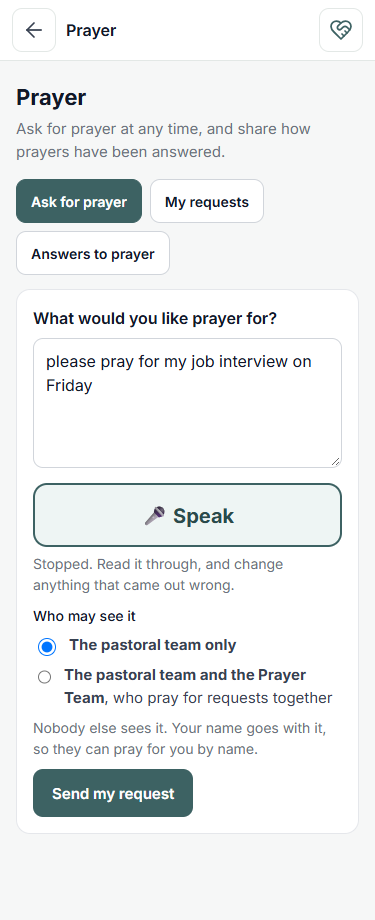
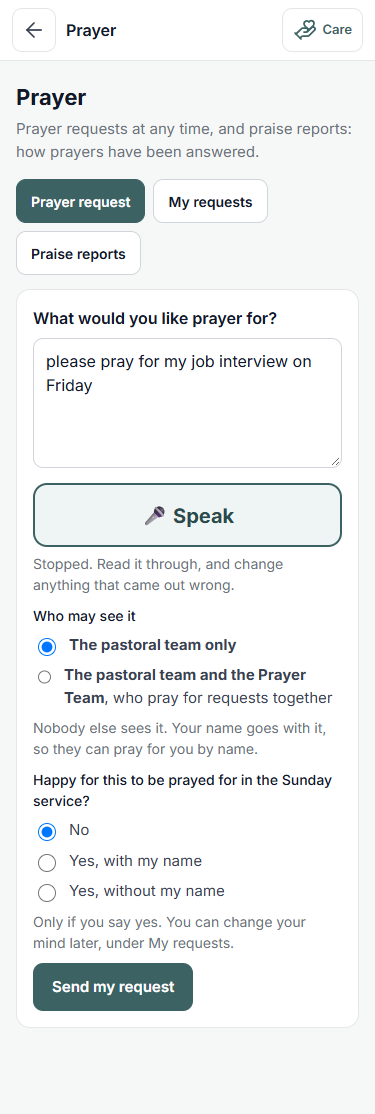
Events: prayer - the whole form before switch-over, and 'For Sunday' (F-217)
Before switch-over prayer.html and newhere.html show the whole form;
only the button is shut ('Prayer requests open on ...'), with the 999
line above it; nothing saved (checked at send). New: 'Happy for this to
be prayed for in the Sunday service?' No / Yes, with my name / Yes,
without my name; readers see the choice; a 'For Sunday' list of the yes
ones only. prayer 38/38, newhere 27/27, rules 1423/1423, 12 breaks.

diff --git a/v2/prayer.html b/v2/prayer.html
@@ -43,6 +43,10 @@
   .btn.sec{background:#fff;color:var(--ink);border-color:var(--line-2)}
   .btn.small{min-height:40px;font-size:14px;padding:0 12px}
   .btn:disabled{opacity:.55}
+  .btn.closed:disabled{opacity:1;background:#e5e7eb;color:#374151;border-color:#d1d5db;cursor:not-allowed;white-space:normal;text-align:center}
+  .danger999{font-size:15px;font-weight:600;color:var(--ink);margin:12px 0 0}
+  select.sun{min-height:40px;border:1px solid var(--line-2);border-radius:10px;padding:0 10px;font:inherit;background:#fff;color:var(--ink)}
+  @media print{.tabs,#pr-settings,.noprint{display:none!important}.card{border:none}}
   .acts{display:flex;gap:8px;flex-wrap:wrap;margin-top:10px}
   .item{padding:12px 0;border-top:1px solid var(--line)}.item:first-of-type{border-top:none}
   .item .w{white-space:pre-wrap;overflow-wrap:break-word;color:var(--ink)}
@@ -85,6 +89,17 @@
   var NOBODY = false;
   var NOBODY_WORDS = 'Messages cannot be sent from here yet, because the church has not yet named who receives them. ' +
     'If someone is in immediate danger, call 999. Otherwise, please speak to one of the church leaders in person - for example after a Sunday service.';
+  /* SUNDAY (Martin, 15 Oct): "Happy for this to be prayed for in the Sunday
+     service?" No unless the person says yes; with or without their name.
+     Saved as sunday: 'no' | 'named' | 'anon'. Never read out unless yes. */
+  var SUNDAY = [['no', 'No'], ['named', 'Yes, with my name'], ['anon', 'Yes, without my name']];
+  function sundayOf(p) { return p && (p.sunday === 'named' || p.sunday === 'anon') ? p.sunday : 'no'; }
+  function sundayWords(p) { var v = sundayOf(p); return v === 'named' ? 'Sunday: yes, with the name' : v === 'anon' ? 'Sunday: yes, without the name' : 'Not for Sunday'; }
+  /* Before switch-over the whole form shows; only the button is shut. */
+  function closedWords() { return 'Prayer requests open ' + (LAUNCH.opensOn ? 'on ' + LAUNCH.opensOn : 'when the new church hub opens'); }
+  function closedBit() {
+    return '<p class="danger999" id="pr-999">' + esc(window.EGBCLaunch ? EGBCLaunch.DANGER : 'If someone is in immediate danger, call 999.') + ' Until then, please speak to a church leader in person.</p>';
+  }
   function launch() { return window.EGBCLaunch ? EGBCLaunch.check() : Promise.resolve({ locked: false, opensOn: '' }); }
   function notYet() { return window.EGBCLaunch ? EGBCLaunch.notYet(LAUNCH.opensOn) : 'This form is not open yet.'; }
   /* Before every save: still not open means nothing is written. */
@@ -107,15 +122,15 @@
   function draw() {
     if (window.EGBCChurch && EGBCChurch.uses && !EGBCChurch.uses('prayer')) { $('main').innerHTML = '<div class="card">Prayer requests are not used by this church.</div>'; return; }
     var tabs = [['ask', 'Prayer request'], ['mine', 'My requests'], ['answers', 'Praise reports']];
-    if (FORUS) tabs.push(['forus', FORUS.pastoral ? 'Requests to pray for' : 'Prayer team']);
+    if (FORUS) tabs.push(['forus', FORUS.pastoral ? 'Requests to pray for' : 'Prayer team'], ['sunday', 'For Sunday']);
+    if (TAB === 'sunday' && !FORUS) TAB = 'ask';
     $('main').innerHTML = '<div class="tabs" role="tablist">' + tabs.map(function (t) {
       return '<button data-tab="' + t[0] + '" aria-pressed="' + (TAB === t[0]) + '">' + t[1] + '</button>'; }).join('') + '</div>' +
-      (TAB === 'ask' ? askCard() : TAB === 'mine' ? mineCard() : TAB === 'answers' ? answersCard() : forUsCard()) + (MASTER ? settingsCard() : '');
+      (TAB === 'ask' ? askCard() : TAB === 'mine' ? mineCard() : TAB === 'answers' ? answersCard() : TAB === 'sunday' ? sundayCard() : forUsCard()) + (MASTER ? settingsCard() : '');
     wire();
   }
   function askCard() {
-    if (!LAUNCH.locked) return '<div class="card" id="ask"><h2>What would you like prayer for?</h2><p class="said" id="not-yet" role="status">' + esc(notYet()) + '</p></div>';
-    if (NOBODY) return '<div class="card" id="ask"><h2>What would you like prayer for?</h2><p class="said" id="nobody" role="status">' + esc(NOBODY_WORDS) + '</p></div>';
+    if (NOBODY && LAUNCH.locked) return '<div class="card" id="ask"><h2>What would you like prayer for?</h2><p class="said" id="nobody" role="status">' + esc(NOBODY_WORDS) + '</p></div>';
     if (SENT) return '<div class="card" id="ask"><div class="done" id="sent">Thank you. Your request has been passed on, and you will be prayed for.</div>' +
       '<div class="acts"><button class="btn sec" id="again">Ask for something else</button></div></div>';
     return '<div class="card" id="ask"><h2>What would you like prayer for?</h2>' +
@@ -125,13 +140,19 @@
       '<label class="radio"><input type="radio" name="pr-share" value="pastoral" checked><span><b>The pastoral team only</b></span></label>' +
       (TEAM ? '<label class="radio"><input type="radio" name="pr-share" value="prayerTeam"><span><b>The pastoral team and the ' + esc(TEAM) + '</b>, who pray for requests together</span></label>' : '') +
       '<p class="said">Nobody else sees it. Your name goes with it, so they can pray for you by name.</p>' +
-      '<div class="acts"><button class="btn" id="pr-go">Send my request</button></div></div>';
+      '<label class="l">Happy for this to be prayed for in the Sunday service?</label>' +
+      SUNDAY.map(function (o) { return '<label class="radio"><input type="radio" name="pr-sunday" value="' + o[0] + '"' + (o[0] === 'no' ? ' checked' : '') + '><span>' + o[1] + '</span></label>'; }).join('') +
+      '<p class="said">Only if you say yes. You can change your mind later, under My requests.</p>' +
+      (LAUNCH.locked ? '<div class="acts"><button class="btn" id="pr-go">Send my request</button></div></div>'
+        : closedBit() + '<div class="acts"><button class="btn closed" id="pr-go" disabled aria-disabled="true">' + esc(closedWords()) + '</button></div></div>');
   }
   function mineCard() {
     return '<div class="card" id="mine"><h2>My requests</h2>' + (MINE.length ? MINE.map(function (p) {
       return '<div class="item" data-mine="' + esc(p.id) + '"><div class="w">' + esc(p.text) + '</div>' +
         '<div class="m">' + esc(when(p.at)) + ' · ' + (p.share === 'prayerTeam' ? 'pastoral team and ' + esc(TEAM || 'prayer team') : 'pastoral team') +
         (p.answered ? ' · <span class="pill ok">Answered</span>' : '') + '</div>' +
+        '<div class="m"><label>In the Sunday service? <select class="sun" data-sunday="' + esc(p.id) + '"' + (LAUNCH.locked ? '' : ' disabled') + '>' +
+          SUNDAY.map(function (o) { return '<option value="' + o[0] + '"' + (sundayOf(p) === o[0] ? ' selected' : '') + '>' + o[1] + '</option>'; }).join('') + '</select></label></div>' +
         (p.answered && p.answer ? '<div class="w" style="margin-top:6px">' + esc(p.answer) + '</div>' : '') +
         (p.answered || !LAUNCH.locked ? '' : '<label class="l" for="an-' + esc(p.id) + '">Has it been answered? Say how (optional)</label><textarea id="an-' + esc(p.id) + '" maxlength="2000" style="min-height:70px"></textarea>' +
           '<label class="radio"><input type="checkbox" id="sh-' + esc(p.id) + '"><span>Share the answer with the church, to encourage others</span></label>' +
@@ -146,11 +167,11 @@
         return '<div class="item" data-answer-of="' + esc(a.id) + '"><div class="w">' + esc(a.text) + '</div><div class="m">' + esc(a.byName || 'Shared without a name') + ' · ' + esc(when(a.at)) + '</div>' +
           (FORUS && FORUS.pastoral ? '<div class="acts"><button class="btn sec small" data-hide="' + esc(a.id) + '">Hide it</button></div>' : '') + '</div>';
       }).join('') : '<p class="said">None shared yet.</p>') +
-      (!LAUNCH.locked ? '<p class="said" id="not-yet-share" role="status">Sharing an answer to prayer opens when the new church hub opens.</p></div>' :
-      '<label class="l" for="sh-text">Share an answer to prayer</label><textarea id="sh-text" maxlength="2000" style="min-height:90px"></textarea>' +
+      ('<label class="l" for="sh-text">Share an answer to prayer</label><textarea id="sh-text" maxlength="2000" style="min-height:90px"></textarea>' +
       '<button class="speak" id="sh-speak" type="button" aria-pressed="false">🎤 Speak</button><p class="said" id="sh-said" role="status"></p>' +
       '<label class="radio"><input type="checkbox" id="sh-name" checked><span>with my name</span></label>' +
-      '<div class="acts"><button class="btn" id="sh-go">Share it</button></div></div>');
+      (LAUNCH.locked ? '<div class="acts"><button class="btn" id="sh-go">Share it</button></div></div>'
+        : closedBit() + '<div class="acts"><button class="btn closed" id="sh-go" disabled aria-disabled="true">' + esc('Sharing opens ' + (LAUNCH.opensOn ? 'on ' + LAUNCH.opensOn : 'when the new church hub opens')) + '</button></div></div>'));
   }
   function forUsCard() {
     var list = FORUS.list;
@@ -159,8 +180,28 @@
       (list.length ? list.map(function (p) {
         return '<div class="item" data-forus="' + esc(p.id) + '"><div class="w">' + esc(p.text) + '</div><div class="m">' + esc(p.byName || '') + ' · ' + esc(when(p.at)) +
           (FORUS.pastoral ? ' · ' + (p.share === 'prayerTeam' ? 'shared with the ' + esc(TEAM || 'prayer team') : 'pastoral only') : '') +
+          ' · <span class="pill' + (sundayOf(p) === 'no' ? '' : ' ok') + '" data-sun="' + sundayOf(p) + '">' + esc(sundayWords(p)) + '</span>' +
           (p.answered ? ' · <span class="pill ok">Answered</span>' : '') + '</div>' + (p.answered && p.answer ? '<div class="w" style="margin-top:6px">' + esc(p.answer) + '</div>' : '') + '</div>';
       }).join('') : '<p class="said">None at the moment.</p>') + '</div>';
+  }
+  /* FOR SUNDAY: only requests the person said yes to, not yet answered,
+     from the last four weeks, newest first - with the name only when they
+     chose "with my name". For the service leader or the pastor to read out. */
+  function forSunday() {
+    var since = Date.now() - 28 * 864e5;
+    return (FORUS ? FORUS.list : []).filter(function (p) {
+      var t = p.at && p.at.toMillis ? p.at.toMillis() : Date.now();
+      return sundayOf(p) !== 'no' && !p.answered && t >= since;
+    });
+  }
+  function sundayCard() {
+    var list = forSunday();
+    return '<div class="card" id="sunday"><h2>For Sunday</h2>' +
+      '<p class="said" style="margin:0 0 8px">Requests people are happy to have prayed for in the Sunday service, from the last four weeks. A name only where they asked for it.</p>' +
+      (list.length ? list.map(function (p) {
+        return '<div class="item" data-sunday-item="' + esc(p.id) + '"><div class="w">' + esc(p.text) + '</div>' +
+          '<div class="m">' + (sundayOf(p) === 'named' ? esc(p.byName || '') : 'No name given') + ' · ' + esc(when(p.at)) + '</div></div>';
+      }).join('') + '<div class="acts noprint"><button class="btn sec" id="sun-print">Print</button></div>' : '<p class="said">None for this Sunday.</p>') + '</div>';
   }
   function settingsCard() {
     return '<div class="card" id="pr-settings"><h2>The prayer team</h2><p class="said" style="margin:0 0 6px">If the church has a prayer team, name it here (its team or group, exactly as in the address book), and people can choose to share a request with it too. Leave it empty for none.</p>' +
@@ -179,14 +220,18 @@
     document.querySelectorAll('[data-hide]').forEach(function (b) { b.onclick = function () { hide(b.dataset.hide); }; });
     if ($('sh-go')) $('sh-go').onclick = function () { share($('sh-text').value, $('sh-name').checked).then(function (ok) { if (ok) { toast('Shared. Thank you.'); load(); } }); };
     if ($('pt-go')) $('pt-go').onclick = saveTeam;
+    if ($('sun-print')) $('sun-print').onclick = function () { window.print(); };
+    document.querySelectorAll('[data-sunday]').forEach(function (s) { s.onchange = function () { setSunday(s.dataset.sunday, s.value); }; });
   }
 
   /* ---------------- saving ---------------- */
   function send() {
     var text = ($('pr-text').value || '').trim(), share = (document.querySelector('input[name="pr-share"]:checked') || {}).value || 'pastoral';
+    var sunday = (document.querySelector('input[name="pr-sunday"]:checked') || {}).value || 'no';
+    if (['no', 'named', 'anon'].indexOf(sunday) < 0) sunday = 'no';
     if (text.length < 3) { toast('Write or say a few words first'); return; }
     $('pr-go').disabled = true;
-    mayWrite().then(function () { return db().collection('prayers').add({ by: uid(), byName: (ME.name || '').slice(0, 120), text: text.slice(0, 4000), share: share, at: now(), answered: false, answer: '', answeredAt: null }); })
+    mayWrite().then(function () { return db().collection('prayers').add({ by: uid(), byName: (ME.name || '').slice(0, 120), text: text.slice(0, 4000), share: share, sunday: sunday, at: now(), answered: false, answer: '', answeredAt: null }); })
       .then(function () { SENT = true; return load(); })
       .catch(function (e) { if (e && e.message === 'not open') return; $('pr-go').disabled = false; toast('Could not send it: ' + (e.message || e)); });
   }
@@ -195,6 +240,11 @@
     mayWrite().then(function () { return db().collection('prayers').doc(id).update({ answered: true, answer: ans, answeredAt: now() }); })
       .then(function () { return sh && ans.length >= 3 ? share(ans, nm) : true; })
       .then(function () { toast(sh && ans.length >= 3 ? 'Marked answered, and shared. Thank you.' : 'Marked answered.'); return load(); })
+      .catch(function (e) { if (e && e.message === 'not open') return; toast('Could not: ' + (e.message || e)); });
+  }
+  function setSunday(id, v) {
+    mayWrite().then(function () { return db().collection('prayers').doc(id).update({ sunday: v }); })
+      .then(function () { toast(v === 'no' ? 'It will not be read out on Sunday.' : 'Saved: it may be prayed for on Sunday, ' + (v === 'named' ? 'with your name.' : 'without your name.')); return load(); })
       .catch(function (e) { if (e && e.message === 'not open') return; toast('Could not: ' + (e.message || e)); });
   }
   function withdraw(id) {
@@ -238,7 +288,7 @@
   EGBCAuth.require().then(function (p) {
     ME = p || {};
     MASTER = !!(EGBCAuth.isMaster && EGBCAuth.isMaster());
-    if (/[?&]tab=(mine|answers|forus)\b/.test(location.search)) TAB = location.search.match(/tab=(\w+)/)[1];
+    if (/[?&]tab=(mine|answers|forus|sunday)\b/.test(location.search)) TAB = location.search.match(/tab=(\w+)/)[1];
     return launch().then(function (L) {
       LAUNCH = L;
       return db().collection('careRouting').doc('status').get().then(function (s) { NOBODY = s.exists && s.data().leadSet === false; }, function () {});

diff --git a/v2/newhere.html b/v2/newhere.html
@@ -43,6 +43,8 @@
   .btn{display:inline-flex;align-items:center;justify-content:center;min-height:52px;padding:0 22px;border-radius:12px;font:600 16px Inter,sans-serif;cursor:pointer;border:1px solid transparent;background:var(--brand);color:#fff}
   .btn.sec{background:#fff;color:var(--ink);border-color:var(--line-2)}.btn.small{min-height:40px;font-size:14px;padding:0 12px}
   .btn:disabled{opacity:.55}
+  .btn.closed:disabled{opacity:1;background:#e5e7eb;color:#374151;border-color:#d1d5db;cursor:not-allowed;white-space:normal;text-align:center}
+  .danger999{font-size:15px;font-weight:600;color:#111827;margin:12px 0 8px}
   .done{background:var(--ok-bg);color:var(--ok);border-radius:12px;padding:14px;font-size:16px}
   .err{color:#b0392c;font-size:14px;margin:8px 0 0}
   .okmsg{color:var(--ok);font-size:14px;margin:8px 0 0}
@@ -82,7 +84,10 @@
   }
   function all(s) { return s.docs.map(function (d) { return Object.assign({ id: d.id }, d.data()); }); }
 
-  function card() {
+  /* Before switch-over (Martin, 15 Oct) the whole form shows, so people
+     can see what it asks; only Send is shut, with the 999 line above it. */
+  function card(L) {
+    var closed = L && !L.locked;
     var church = EGBCChurch.name() || 'our church';
     return '<h1>Welcome!</h1><p class="sub">We are glad you are here. Say hello, and if you would like, someone from ' + esc(church) + ' will get in touch.</p>' +
       '<form class="card" id="f" novalidate>' +
@@ -98,7 +103,10 @@
       '<button class="speak" id="n-speak" type="button" aria-pressed="false">🎤 Speak</button><p class="hint" id="n-said" role="status"></p>' +
       '<div class="hp" aria-hidden="true"><label>Leave this empty<input id="website" tabindex="-1" autocomplete="off"></label></div>' +
       '<p class="hint">We keep only what you send, to reply to you. Nothing is saved until you press Send.</p>' +
-      '<div id="n-err"></div><button class="btn" id="n-go" type="submit">Send</button></form>';
+      '<div id="n-err"></div>' +
+      (closed ? '<p class="danger999" id="n-999">' + esc((window.EGBCLaunch ? EGBCLaunch.DANGER : 'If someone is in immediate danger, call 999.') + ' Until then, please speak to someone from ' + church + ' in person.') + '</p>' +
+        '<button class="btn closed" id="n-go" type="submit" disabled aria-disabled="true">' + esc('Sending opens ' + (L.opensOn ? 'on ' + L.opensOn : 'when the new church hub opens')) + '</button>'
+        : '<button class="btn" id="n-go" type="submit">Send</button>') + '</form>';
   }
   /* F-179: until the locked rules are on (churchSettings/launch.rulesLocked),
      a hello saved here could be read by anyone, so none is. Asked when the
@@ -196,8 +204,7 @@
     /* The form only once it is known to be open. The welcomers' card below
        is not a form a visitor fills in, so it shows either way. */
     launch().then(function (L) {
-      if (!L.locked) { $('main').innerHTML = notYetCard(L); return; }
-      $('main').innerHTML = card();
+      $('main').innerHTML = card(L);
       opened = Date.now();
       EGBCSpeak.attach($('n-speak'), $('n-msg'), { status: $('n-said') });
       $('f').onsubmit = send;

diff --git a/v2/FINDINGS-events.md b/v2/FINDINGS-events.md
@@ -6728,3 +6728,45 @@ name, as now.
 
 **Proved:** fire-rollcall.test 24/24; rules suite 1415/1415; 8
 deliberate breaks, all caught.
+
+### F-217 — Prayer: the whole form before switch-over, and "For Sunday" (Martin, 15 Oct)
+
+Martin: "no where to put in the details of the prayer. Also need a tick
+to say if happy to share it on Sunday or not."
+
+**Done (prayer.html, newhere.html: mine):**
+- **Before switch-over the whole form shows.** Only the button is shut:
+  "Prayer requests open on <date>" (or "when the new church hub opens";
+  the date is churchSettings/launch.opensOn). Above it: "If someone is
+  in immediate danger, call 999. Until then, please speak to a church
+  leader in person." Praise reports and newhere.html are the same
+  ("Sharing opens…", "Sending opens…"). Nothing is saved: the check at
+  the moment of sending is kept, and the test forces the button on to
+  prove it.
+- **"Happy for this to be prayed for in the Sunday service?"** No (to
+  start with) / Yes, with my name / Yes, without my name. It's saved as
+  `prayers.sunday` = 'no' | 'named' | 'anon'; missing means no. The
+  person can change it under My requests. Nobody else can (rules).
+- **The readers** see the choice on each request. A new **"For Sunday"**
+  tab lists only the yes ones that aren't answered yet, from the last
+  four weeks, with the name only where the person asked for it, and a
+  Print button. Each reader sees only what they can already read: the
+  prayer team, only the ones shared with it.
+
+**Rules (events section):** prayers create allows `sunday` (no, named or
+anon only); the owner alone may change `sunday`, on its own.
+
+**For the main window, please:**
+1. worried.html and care.html (yours) still hide the form before
+   switch-over. Martin wants them the same: show the whole form, shut
+   only the button ("… open on <date>"), with the 999 line above it.
+   `EGBCLaunch.DANGER` has the 999 words.
+2. Add prayer.html (the Sunday question, "For Sunday", the shut button)
+   and newhere.html to tests/audit-everything.mjs when it lands. I'll
+   add my pages' own breaks once I can see its shape.
+
+**Open question for Martin:** who reads "For Sunday" out? Today it's
+whoever already reads requests (the pastoral team, the prayer team for
+the ones shared with it, and the people named in Who gets told). If the
+service leader isn't one of them, they won't see it. Should there be a
+named "Sunday service leader" who sees the For Sunday list only?
